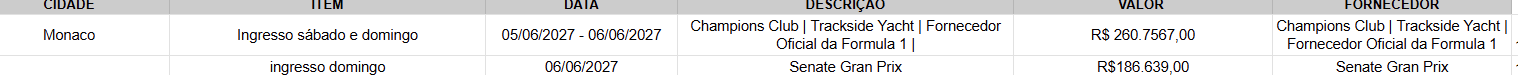
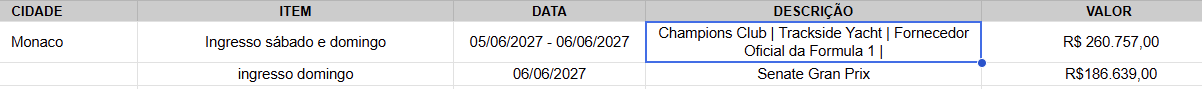
Ronaldo França: valor do Champions Club R$ 260.757,00
Claude-Session: https://claude.ai/code/session_01AaMdZyqdA5pyaEQqEQ4NjR

diff --git a/cotacoes/ronaldo-santos-franca/src/index.html b/cotacoes/ronaldo-santos-franca/src/index.html
@@ -437,7 +437,7 @@ td.v{text-align:right;white-space:nowrap;font-variant-numeric:tabular-nums}
       <div class="air-head"><div class="dir">Opção 1 · sábado e domingo</div><div class="route">Champions Club · Trackside Yacht</div></div>
       <div class="leg f1"><div class="fl">Champions Club · fornecedor oficial da Fórmula 1<b>Ingressos para assistir ao GP de Mônaco a bordo de um iate ancorado à beira da pista</b>Mônaco · 05 e 06/06/2027</div><div class="cls">sábado e domingo</div></div>
       
-      <div class="air-foot"><span class="l">4 pessoas</span><div class="a"><div class="t">R$ 260.756,70</div><div class="p">total para 4 pessoas</div></div></div>
+      <div class="air-foot"><span class="l">4 pessoas</span><div class="a"><div class="t">R$ 260.757,00</div><div class="p">total para 4 pessoas</div></div></div>
     </div>
     <div class="air">
       <div class="air-head"><div class="dir">Opção 2 · domingo</div><div class="route">Senate Grand Prix</div></div>
@@ -481,9 +481,9 @@ td.v{text-align:right;white-space:nowrap;font-variant-numeric:tabular-nums}
       <tr class="sec-row"><td colspan="2">Trem</td></tr>
       <tr><td><b>TGV Paris → Avignon · 19/05</b><div class="rm">TGV INOUI 6107 · 4 passageiros · com upgrade de classe</div></td><td class="v">R$ 2.185,56</td></tr>
       <tr class="sec-row"><td colspan="2">Fórmula 1 · GP de Mônaco <span>· escolher 1</span></td></tr>
-      <tr><td><b>Champions Club · Trackside Yacht</b><div class="rm">sábado e domingo · 05 e 06/06/2027 · 4 pessoas</div></td><td class="v">R$ 260.756,70</td></tr>
+      <tr><td><b>Champions Club · Trackside Yacht</b><div class="rm">sábado e domingo · 05 e 06/06/2027 · 4 pessoas</div></td><td class="v">R$ 260.757,00</td></tr>
       <tr><td><b>Senate Grand Prix</b><div class="rm">domingo · 06/06/2027 · 4 pessoas · valor e sábado a confirmar</div></td><td class="v">R$ 186.639,00</td></tr>
-      <tr class="total-row"><td>Total estimado · 4 pessoas</td><td class="v">R$ 458.721,16 – 709.597,45</td></tr>
+      <tr class="total-row"><td>Total estimado · 4 pessoas</td><td class="v">R$ 458.721,16 – 709.597,75</td></tr>
     </table></div>
     <p class="note">Como é calculado: o menor valor soma a opção de aéreo mais barata, o hotel mais barato de cada cidade, o trem e o ingresso de F1 mais barato (Senate, só domingo); o maior, a opção de aéreo, os hotéis e o ingresso de F1 mais caros.</p>
     <div class="pay">

diff --git a/cotacoes/ronaldo-santos-franca/build.py b/cotacoes/ronaldo-santos-franca/build.py
@@ -10,8 +10,7 @@ Fontes (enviadas pela agência em 23/11/2026):
 - fonte/trem-paris-avignon.png: TGV INOUI 6107 Paris Gare de Lyon → Avignon TGV, 19/05 09:38–12:18, 4 passageiros,
   bilhete R$ 974,64 + upgrade de classe x4 R$ 1.210,92 = R$ 2.185,56.
 - fonte/f1-monaco.png: ingressos do GP de Mônaco, totais para 4 pessoas em BRL:
-  Champions Club · Trackside Yacht (fornecedor oficial da F1), sábado e domingo 05–06/06/2027, "R$ 260.7567,00" na tabela,
-  lido como R$ 260.756,70 (a confirmar com a agência); Senate Grand Prix, domingo 06/06/2027, R$ 186.639,00, aguardando
+  Champions Club · Trackside Yacht (fornecedor oficial da F1), sábado e domingo 05–06/06/2027, R$ 260.757,00; Senate Grand Prix, domingo 06/06/2027, R$ 186.639,00, aguardando
   confirmação de valor e disponibilidade para sábado.
 Durações dos voos conferidas pelos fusos (MAO −4, BRT −3, LIS +1, Paris/Nice/Madri +2 em maio–junho).
 """
@@ -215,7 +214,7 @@ hoteis = "\n".join(
 TREM = 2185.56
 F1 = [
     dict(nome="Champions Club · Trackside Yacht", forn="Champions Club · fornecedor oficial da Fórmula 1", dias="sábado e domingo", datas="05 e 06/06/2027",
-         desc="Ingressos para assistir ao GP de Mônaco a bordo de um iate ancorado à beira da pista", valor=260756.70, pend=""),
+         desc="Ingressos para assistir ao GP de Mônaco a bordo de um iate ancorado à beira da pista", valor=260757.00, pend=""),
     dict(nome="Senate Grand Prix", forn="Senate Grand Prix", dias="domingo", datas="06/06/2027",
          desc="Ingresso para o dia da corrida", valor=186639.00,
          pend="Aguardando a Senate Grand Prix confirmar o valor e a disponibilidade de ingresso também para sábado."),
@@ -236,7 +235,7 @@ AMIN, AMAX = min(o["total"] for o in AEREOS), max(o["total"] for o in AEREOS)
 HMIN = round(sum(min(h[3] for h in hs) for *_, hs in HOTEIS), 2)
 HMAX = round(sum(max(h[3] for h in hs) for *_, hs in HOTEIS), 2)
 TMIN, TMAX = round(AMIN + HMIN + TREM + FMIN, 2), round(AMAX + HMAX + TREM + FMAX, 2)
-assert (HMIN, HMAX, TMIN, TMAX) == (176619.44, 271157.07, 458721.16, 709597.45)
+assert (HMIN, HMAX, TMIN, TMAX) == (176619.44, 271157.07, 458721.16, 709597.75)
 
 rows = []
 rows.append('      <tr class="sec-row"><td colspan="2">Aéreo <span>· escolher 1</span></td></tr>')

diff --git a/cotacoes/ronaldo-santos-franca/README.md b/cotacoes/ronaldo-santos-franca/README.md
@@ -5,7 +5,7 @@
 - Aéreo: TAP executiva R$ 93.277,16 · Air France executiva R$ 166.062,76 · LATAM Premium Business R$ 175.498,12.
 - Hotéis: Paris 15–19/05 (4) · Saint-Rémy 19–24/05 (3) · Aix 24–28/05 (4) · Saint-Tropez 28/05–01/06 (3) · Nice 01–07/06 (1).
   Datas corrigidas da tabela: Saint-Tropez até 01/06 e Nice a partir de 01/06.
-- Faixa total (4 pessoas): R$ 458.721,16 – 709.597,45 (inclui ingressos da F1). Pagamento: a confirmar.
+- Faixa total (4 pessoas): R$ 458.721,16 – 709.597,75 (inclui ingressos da F1). Pagamento: a confirmar.
 - Sem fotos de hotel (a incluir). **Publicação:** projeto Vercel `cotacao-ronaldo-santos-franca`.
 
 ## Fotos dos hotéis
@@ -16,5 +16,5 @@ com limite de requisições em 23/11/2026. Le Mandala: sem foto de café da manh
 
 ## Fórmula 1 · GP de Mônaco (fonte/f1-monaco.png)
 Totais para 4 pessoas, em BRL: Champions Club · Trackside Yacht, sábado e domingo 05–06/06/2027,
-"R$ 260.7567,00" na tabela, usado como R$ 260.756,70 (confirmar); Senate Grand Prix, domingo 06/06/2027,
+R$ 260.757,00; Senate Grand Prix, domingo 06/06/2027,
 R$ 186.639,00, aguardando confirmação de valor e disponibilidade para sábado.
